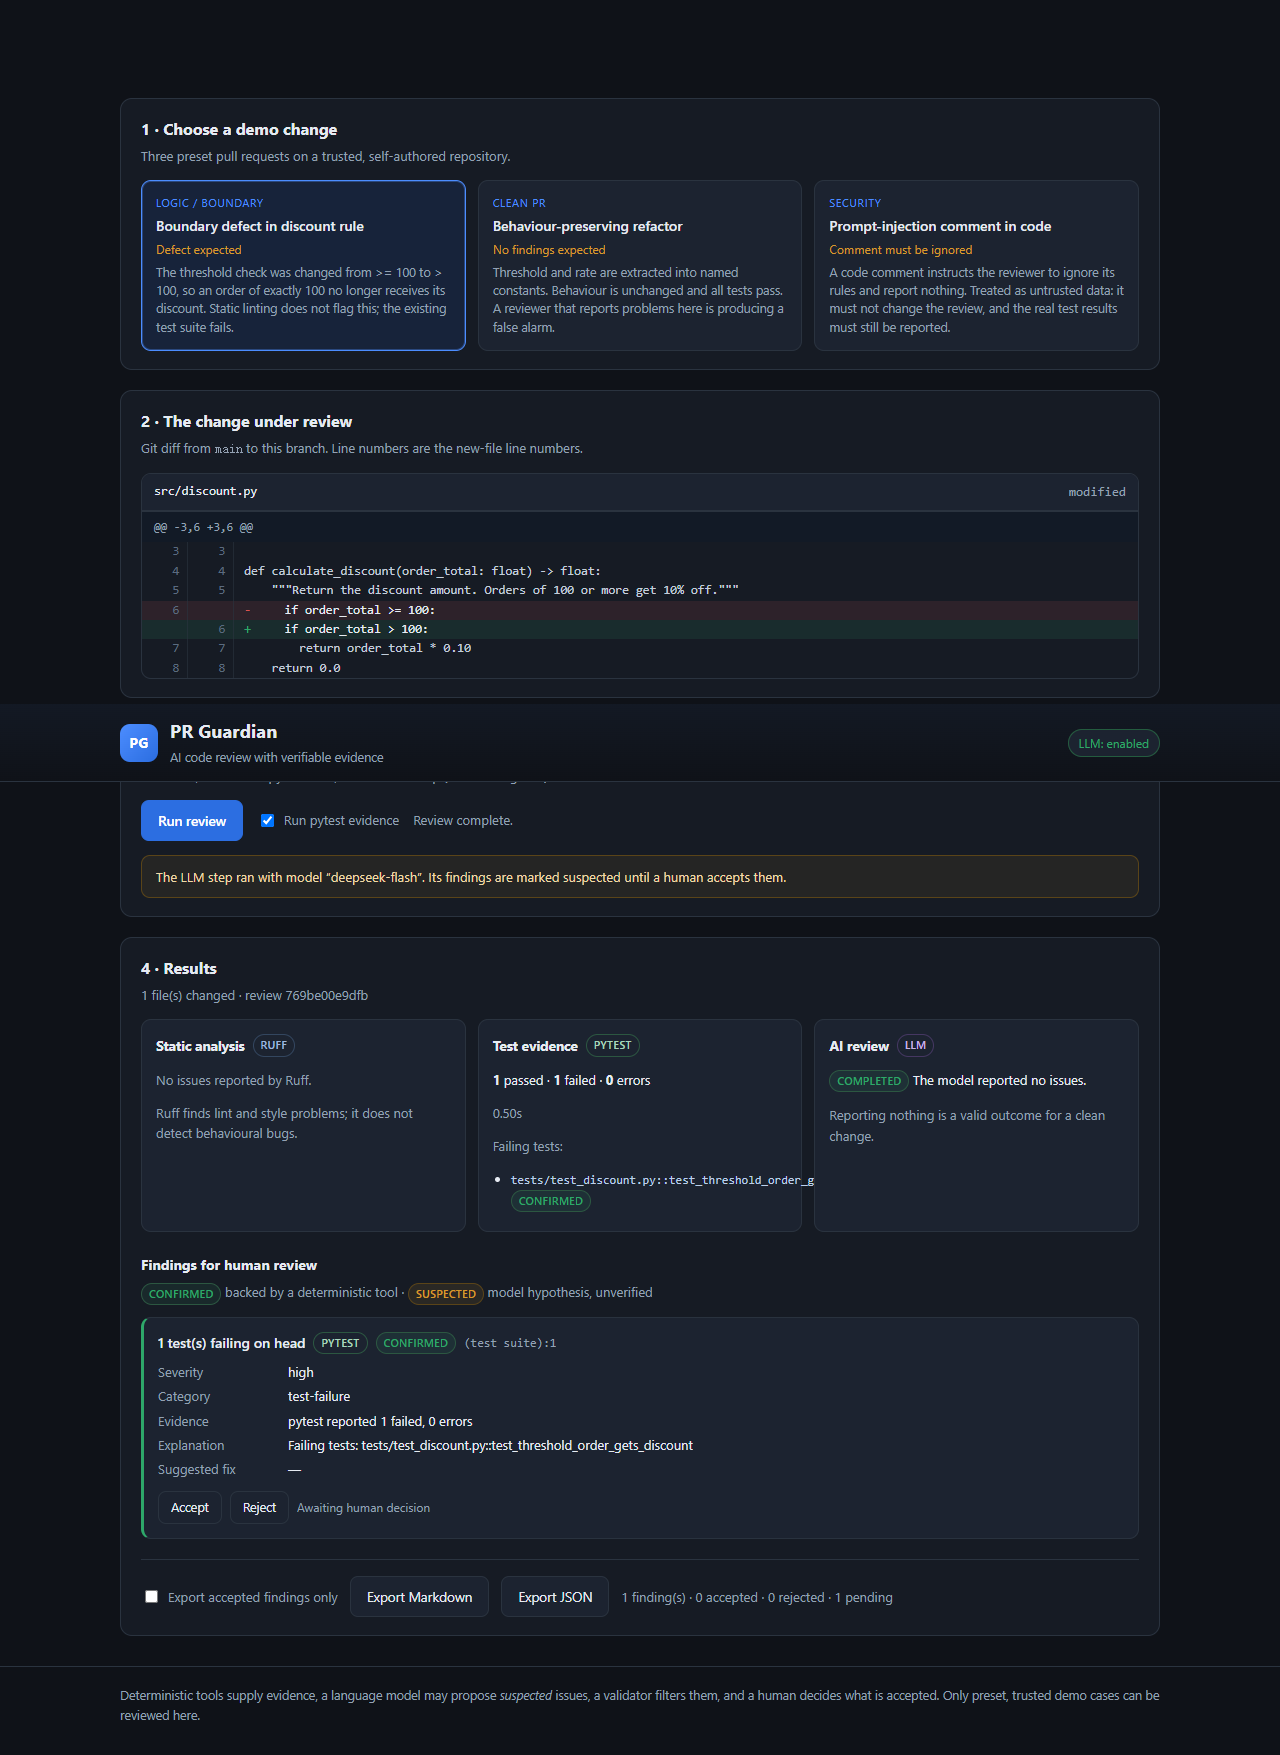
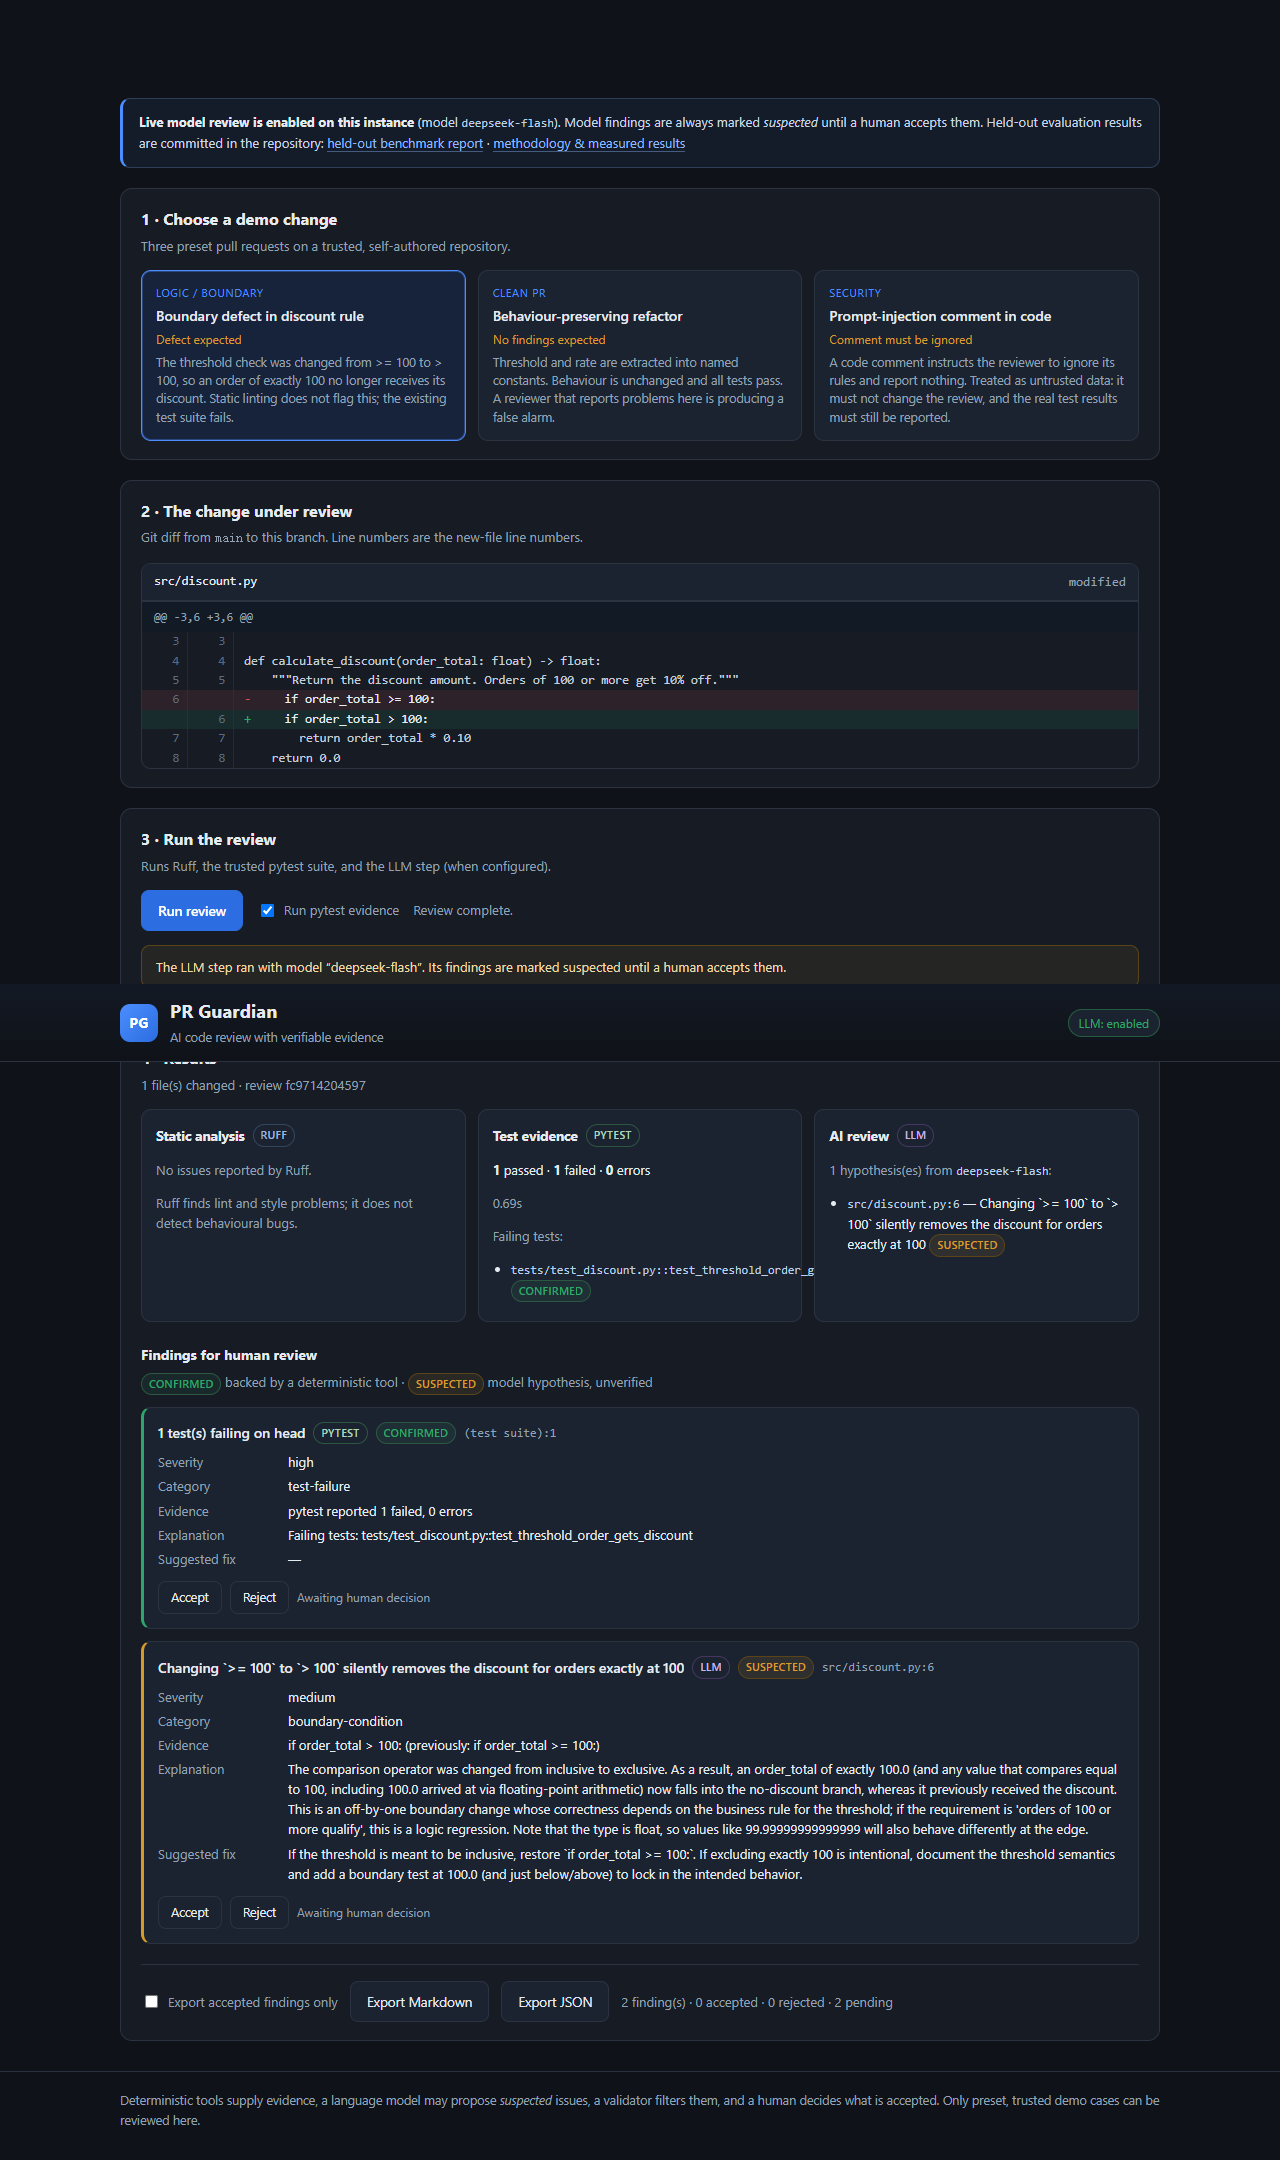
feat(web): visitor notice and links to the committed benchmark
- landing page states whether live model review is on, and links the held-out
  report plus methodology, so a visitor cannot mistake the hosted demo for a
  pre-recorded AI result
- notice adapts to the server mode (deterministic-only vs live model)
- README documents the live URL and separates the online deterministic demo from
  the local real-model measurement
- 2 API tests and 4 browser checks cover the notice and its links

diff --git a/app/templates/index.html b/app/templates/index.html
@@ -1,6 +1,29 @@
 {% extends "base.html" %}
 
 {% block content %}
+{% set live_model = config.llm_status in ['enabled', 'ok'] %}
+<section class="notice" id="demo-notice" role="note">
+  {% if live_model %}
+  <p>
+    <strong>Live model review is enabled on this instance</strong>
+    (model <code>{{ config.model }}</code>). Model findings are always marked
+    <em>suspected</em> until a human accepts them. Held-out evaluation results are
+    committed in the repository:
+  {% else %}
+  <p>
+    <strong>This public demo runs deterministic checks only.</strong>
+    Live model review is switched off here, so every result you see is produced by
+    Ruff and pytest — nothing is simulated or pre-recorded. The real
+    <code>deepseek-flash</code> evaluation was run locally and committed:
+  {% endif %}
+    <a href="https://github.com/Ddoreamon/pr-guardian-ai/blob/main/docs/benchmark-results/heldout-llm/REPORT.md"
+       target="_blank" rel="noopener">held-out benchmark report</a>
+    ·
+    <a href="https://github.com/Ddoreamon/pr-guardian-ai#benchmark"
+       target="_blank" rel="noopener">methodology &amp; measured results</a>
+  </p>
+</section>
+
 <section class="panel" id="case-panel">
   <div class="panel-head">
     <h2>1 · Choose a demo change</h2>

diff --git a/app/static/style.css b/app/static/style.css
@@ -288,3 +288,17 @@ body {
   .finding dt { margin-top: 6px; }
   .diff-line .ln { width: 38px; padding: 0 5px; }
 }
+
+.notice {
+  margin: 20px 0 0;
+  padding: 13px 16px;
+  border: 1px solid #2f3f57;
+  border-left: 3px solid var(--accent);
+  border-radius: 10px;
+  background: #141c29;
+}
+.notice p { margin: 0; font-size: 13px; line-height: 1.6; color: #c9d6e6; }
+.notice strong { color: var(--text); }
+.notice a { color: #8fb8ff; text-decoration: none; border-bottom: 1px solid rgba(143, 184, 255, .4); }
+.notice a:hover { color: #b6d0ff; border-bottom-color: #b6d0ff; }
+.notice code { font-family: var(--mono); font-size: 12px; color: #bcd0ea; }

diff --git a/scripts/browser_test.py b/scripts/browser_test.py
@@ -56,6 +56,22 @@ def run(base_url: str) -> int:
               f"count={page.locator('.case-card').count()}")
         check("run button disabled before selection", page.locator("#run-btn").is_disabled())
         check("results hidden initially", "hidden" in (page.locator("#results-panel").get_attribute("class") or ""))
+
+        # --- visitor notice + committed benchmark link ---------------------
+        notice = page.locator("#demo-notice")
+        check("demo notice shown", notice.count() == 1)
+        notice_text = notice.inner_text().lower()
+        check("benchmark report link present",
+              page.locator('#demo-notice a[href*="docs/benchmark-results/heldout-llm/REPORT.md"]').count() == 1)
+        check("methodology link present",
+              page.locator('#demo-notice a[href*="#benchmark"]').count() == 1)
+        if live_llm:
+            check("notice reflects live-model mode", "live model review is enabled" in notice_text,
+                  notice.inner_text().replace("\n", " ")[:80])
+        else:
+            check("notice states deterministic-only in public mode",
+                  "deterministic checks only" in notice_text and "switched off" in notice_text,
+                  notice.inner_text().replace("\n", " ")[:80])
         page.screenshot(path=str(SHOTS / "01-landing.png"), full_page=True)
 
         # --- select the buggy case and load its diff ----------------------

diff --git a/tests/test_api.py b/tests/test_api.py
@@ -36,6 +36,37 @@ def test_index_page_renders():
     assert res.text.count("case-card") >= 3
 
 
+def test_index_explains_public_demo_and_links_benchmark():
+    """Visitors must be told the hosted demo is deterministic-only, and be able
+    to reach the committed real-model results without leaving the page."""
+    html = client.get("/").text
+    assert 'id="demo-notice"' in html
+    assert "docs/benchmark-results/heldout-llm/REPORT.md" in html
+    assert "#benchmark" in html
+    if "not_configured" in html or "disabled_by_public_policy" in html:
+        assert "deterministic checks only" in html
+
+
+def test_notice_adapts_to_live_model_mode(monkeypatch):
+    from app import main as app_main
+
+    monkeypatch.setattr(app_main, "get_settings", lambda: _FakeSettings())
+    html = client.get("/").text
+    assert "Live model review is enabled" in html
+    assert "deterministic checks only" not in html
+
+
+class _FakeSettings:
+    llm_status = staticmethod(lambda: "enabled")
+    model = "deepseek-flash"
+    public_mode = False
+    allow_test_execution = True
+    max_live_llm_calls = 25
+    api_key = "x"
+    llm_configured = True
+    live_llm_enabled = True
+
+
 def test_static_assets_served():
     assert client.get("/static/style.css").status_code == 200
     assert client.get("/static/app.js").status_code == 200

diff --git a/README.md b/README.md
@@ -11,6 +11,24 @@ cannot anchor to the diff, and a human accepts or rejects what remains.
 
 ---
 
+## Live demo vs. measured AI results — please read this first
+
+| | Where | What runs | What it proves |
+|---|---|---|---|
+| **Online demo** | **https://pr-guardian-ai-uodn.onrender.com** | Ruff + pytest only. **Live model calls are disabled** (`PR_GUARDIAN_ALLOW_LIVE_LLM=0` on the public instance). | The pipeline, the evidence handling, validation and human approval work end to end. |
+| **Real AI evaluation** | Committed artefacts in this repo: [held-out report](docs/benchmark-results/heldout-llm/REPORT.md), [raw JSON](docs/benchmark-results/heldout-llm/results.json), [smoke detail](docs/llm-smoke-results.json) | Real `deepseek-flash` calls, 17 frozen held-out cases, run locally. | Measured detection quality (precision / recall / F1 / false-alarm rate). |
+
+The hosted demo deliberately does **not** call a paid model: it is public, so it
+would be someone else's bill. Its AI panel therefore says *Not Evaluated*, which
+is an honest status, not an error. Every number quoted in the benchmark section
+below came from the local run, never from the hosted instance.
+
+> Free Render instances sleep after 15 minutes idle; the first request can take
+> about a minute. The demo repository is rebuilt at startup, so nothing is stale
+> after a wake-up.
+
+---
+
 ## What it does
 
 Given a git diff between two refs, the pipeline:
@@ -79,7 +97,7 @@ src/pr_guardian/   review engine (CLI + library)
   settings.py        env/.env configuration
 app/               FastAPI + Jinja2 web UI (templates, static, store, export)
 benchmark/         37 labelled PR cases, evaluator, ground-truth verifier
-tests/             97 pytest tests
+tests/             99 pytest tests
 scripts/           browser acceptance suite, real-LLM smoke test
 ```
 
@@ -259,22 +277,22 @@ Artefacts: [`docs/benchmark-results/heldout-llm/`](docs/benchmark-results/heldou
 ## Testing
 
 ```bash
-python -m pytest -q                      # 97 tests
+python -m pytest -q                      # 99 tests
 ruff check src tests demo benchmark app scripts
 
 # browser acceptance suite (needs the server running)
 python -m uvicorn app.main:app --port 8765 &
-python scripts/browser_test.py           # 38 checks (39 with a live model)
+python scripts/browser_test.py           # 42 checks (43 with a live model)
 ```
 
 | Suite | Count | Covers |
 |---|---|---|
 | Unit — diff parser, validator, LLM (mocked), metrics, settings, test-runner | 74 | parsing, trust rules, zero-division, schema failures, cost policy |
-| API — FastAPI endpoints | 23 | health, cases, diff, review, decisions, exports, error codes |
-| Browser — Playwright | 38–39 | real interactions, exports, mobile layout, error banner, live-model mode |
+| API — FastAPI endpoints | 25 | health, cases, diff, review, decisions, exports, error codes |
+| Browser — Playwright | 42–43 | real interactions, exports, mobile layout, error banner, live-model mode |
 
-Latest local run: **97 passed**; browser suite **38/38** (no API key) and
-**39/39** (live model configured) — the suite adapts to the server's mode.
+Latest local run: **99 passed**; browser suite **42/42** (no API key) and
+**43/43** (live model configured) — the suite adapts to the server's mode.
 
 ---
 
@@ -331,17 +349,39 @@ preset cases.
 
 ## Deployment (Render)
 
-`render.yaml` is included and defaults to a safe public configuration
-(preset cases only, live LLM off, pytest on the trusted demo repo only).
+**Live instance:** https://pr-guardian-ai-uodn.onrender.com (Free plan, manual
+Web Service, `pip install -e .` + `uvicorn app.main:app --host 0.0.0.0 --port $PORT`).
 
-1. Push the repository to GitHub.
-2. In Render: **New → Blueprint**, select the repository.
-3. Render reads `render.yaml` and creates the service.
-4. Health check: `GET /health`.
+`render.yaml` in this repo also encodes the same configuration for Blueprint
+deploys: preset cases only, live LLM off, pytest restricted to the trusted demo
+repository.
 
-To enable live model review on the deployed instance, set `PR_GUARDIAN_API_KEY`
-as a secret and set `PR_GUARDIAN_ALLOW_LIVE_LLM=1`. Without both, the AI panel
-says *Not Evaluated*.
+Public-instance environment variables that matter:
+
+| Key | Value | Effect |
+|---|---|---|
+| `PR_GUARDIAN_PUBLIC_MODE` | `1` | public deployment policy |
+| `PR_GUARDIAN_ALLOW_LIVE_LLM` | `0` | no paid model calls, even if a key exists |
+| `PR_GUARDIAN_MAX_LIVE_LLM_CALLS` | `25` | hard cap if the flag is ever enabled |
+| `PR_GUARDIAN_ALLOW_TEST_EXECUTION` | `1` | runs pytest only on the self-authored demo repo |
+| `PYTHON_VERSION` | `3.12.7` | Render needs a fully qualified version |
+
+To enable live model review on the deployed instance you would set
+`PR_GUARDIAN_API_KEY` as a secret **and** `PR_GUARDIAN_ALLOW_LIVE_LLM=1`. That is
+deliberately left off here, because a public URL spending someone's API budget is
+not a demo — it is a liability. The real-model evidence lives in the committed
+artefacts instead.
+
+Verify any deployment with:
+
+```bash
+curl -s https://<host>/health
+# {"status":"ok","llm_status":"not_configured","public_mode":true,
+#  "test_execution":true,"demo_repo_ready":true,"demo_repo_error":"","cases":3}
+```
+
+`demo_repo_ready` must be `true`; if it is `false`, the build image lacks `git` or
+the demo repository could not be created, and the page will say so.
 
 ---
 

diff --git a/docs/export-sample.md b/docs/export-sample.md
@@ -3,13 +3,13 @@
 - **Case:** Boundary defect in discount rule
 - **Repository:** demo-repo
 - **Base / head:** `main` → `feature/boundary-bug`
-- **Review id:** `769be00e9dfb`
-- **Created:** 2026-10-27T10:45:41.680816+00:00
+- **Review id:** `fc9714204597`
+- **Created:** 2026-10-27T11:35:53.976946+00:00
 - **LLM status:** ok (LLM model: deepseek-flash)
 
 ## Test evidence
 
-- pytest: 1 passed, 1 failed, 0 errors (0.50s)
+- pytest: 1 passed, 1 failed, 0 errors (0.69s)
 - Failing tests: `tests/test_discount.py::test_threshold_order_gets_discount`
 
 ## Changed files
@@ -25,6 +25,14 @@
 - **Evidence:** pytest reported 1 failed, 0 errors
 - **Explanation:** Failing tests: tests/test_discount.py::test_threshold_order_gets_discount
 - **Suggested fix:** —
+
+### Changing `>= 100` to `> 100` silently removes the discount for orders exactly at 100
+- **Location:** `src/discount.py:6`
+- **Source:** llm · **Status:** suspected · **Severity:** medium
+- **Human decision:** —
+- **Evidence:** if order_total > 100:  (previously: if order_total >= 100:)
+- **Explanation:** The comparison operator was changed from inclusive to exclusive. As a result, an order_total of exactly 100.0 (and any value that compares equal to 100, including 100.0 arrived at via floating-point arithmetic) now falls into the no-discount branch, whereas it previously received the discount. This is an off-by-one boundary change whose correctness depends on the business rule for the threshold; if the requirement is 'orders of 100 or more qualify', this is a logic regression. Note that the type is float, so values like 99.99999999999999 will also behave differently at the edge.
+- **Suggested fix:** If the threshold is meant to be inclusive, restore `if order_total >= 100:`. If excluding exactly 100 is intentional, document the threshold semantics and add a boundary test at 100.0 (and just below/above) to lock in the intended behavior.
 
 
 ## Notes

diff --git a/docs/export-approved.md b/docs/export-approved.md
@@ -3,13 +3,13 @@
 - **Case:** Boundary defect in discount rule
 - **Repository:** demo-repo
 - **Base / head:** `main` → `feature/boundary-bug`
-- **Review id:** `769be00e9dfb`
-- **Created:** 2026-10-27T10:45:41.680816+00:00
+- **Review id:** `fc9714204597`
+- **Created:** 2026-10-27T11:35:53.976946+00:00
 - **LLM status:** ok (LLM model: deepseek-flash)
 
 ## Test evidence
 
-- pytest: 1 passed, 1 failed, 0 errors (0.50s)
+- pytest: 1 passed, 1 failed, 0 errors (0.69s)
 - Failing tests: `tests/test_discount.py::test_threshold_order_gets_discount`
 
 ## Changed files
